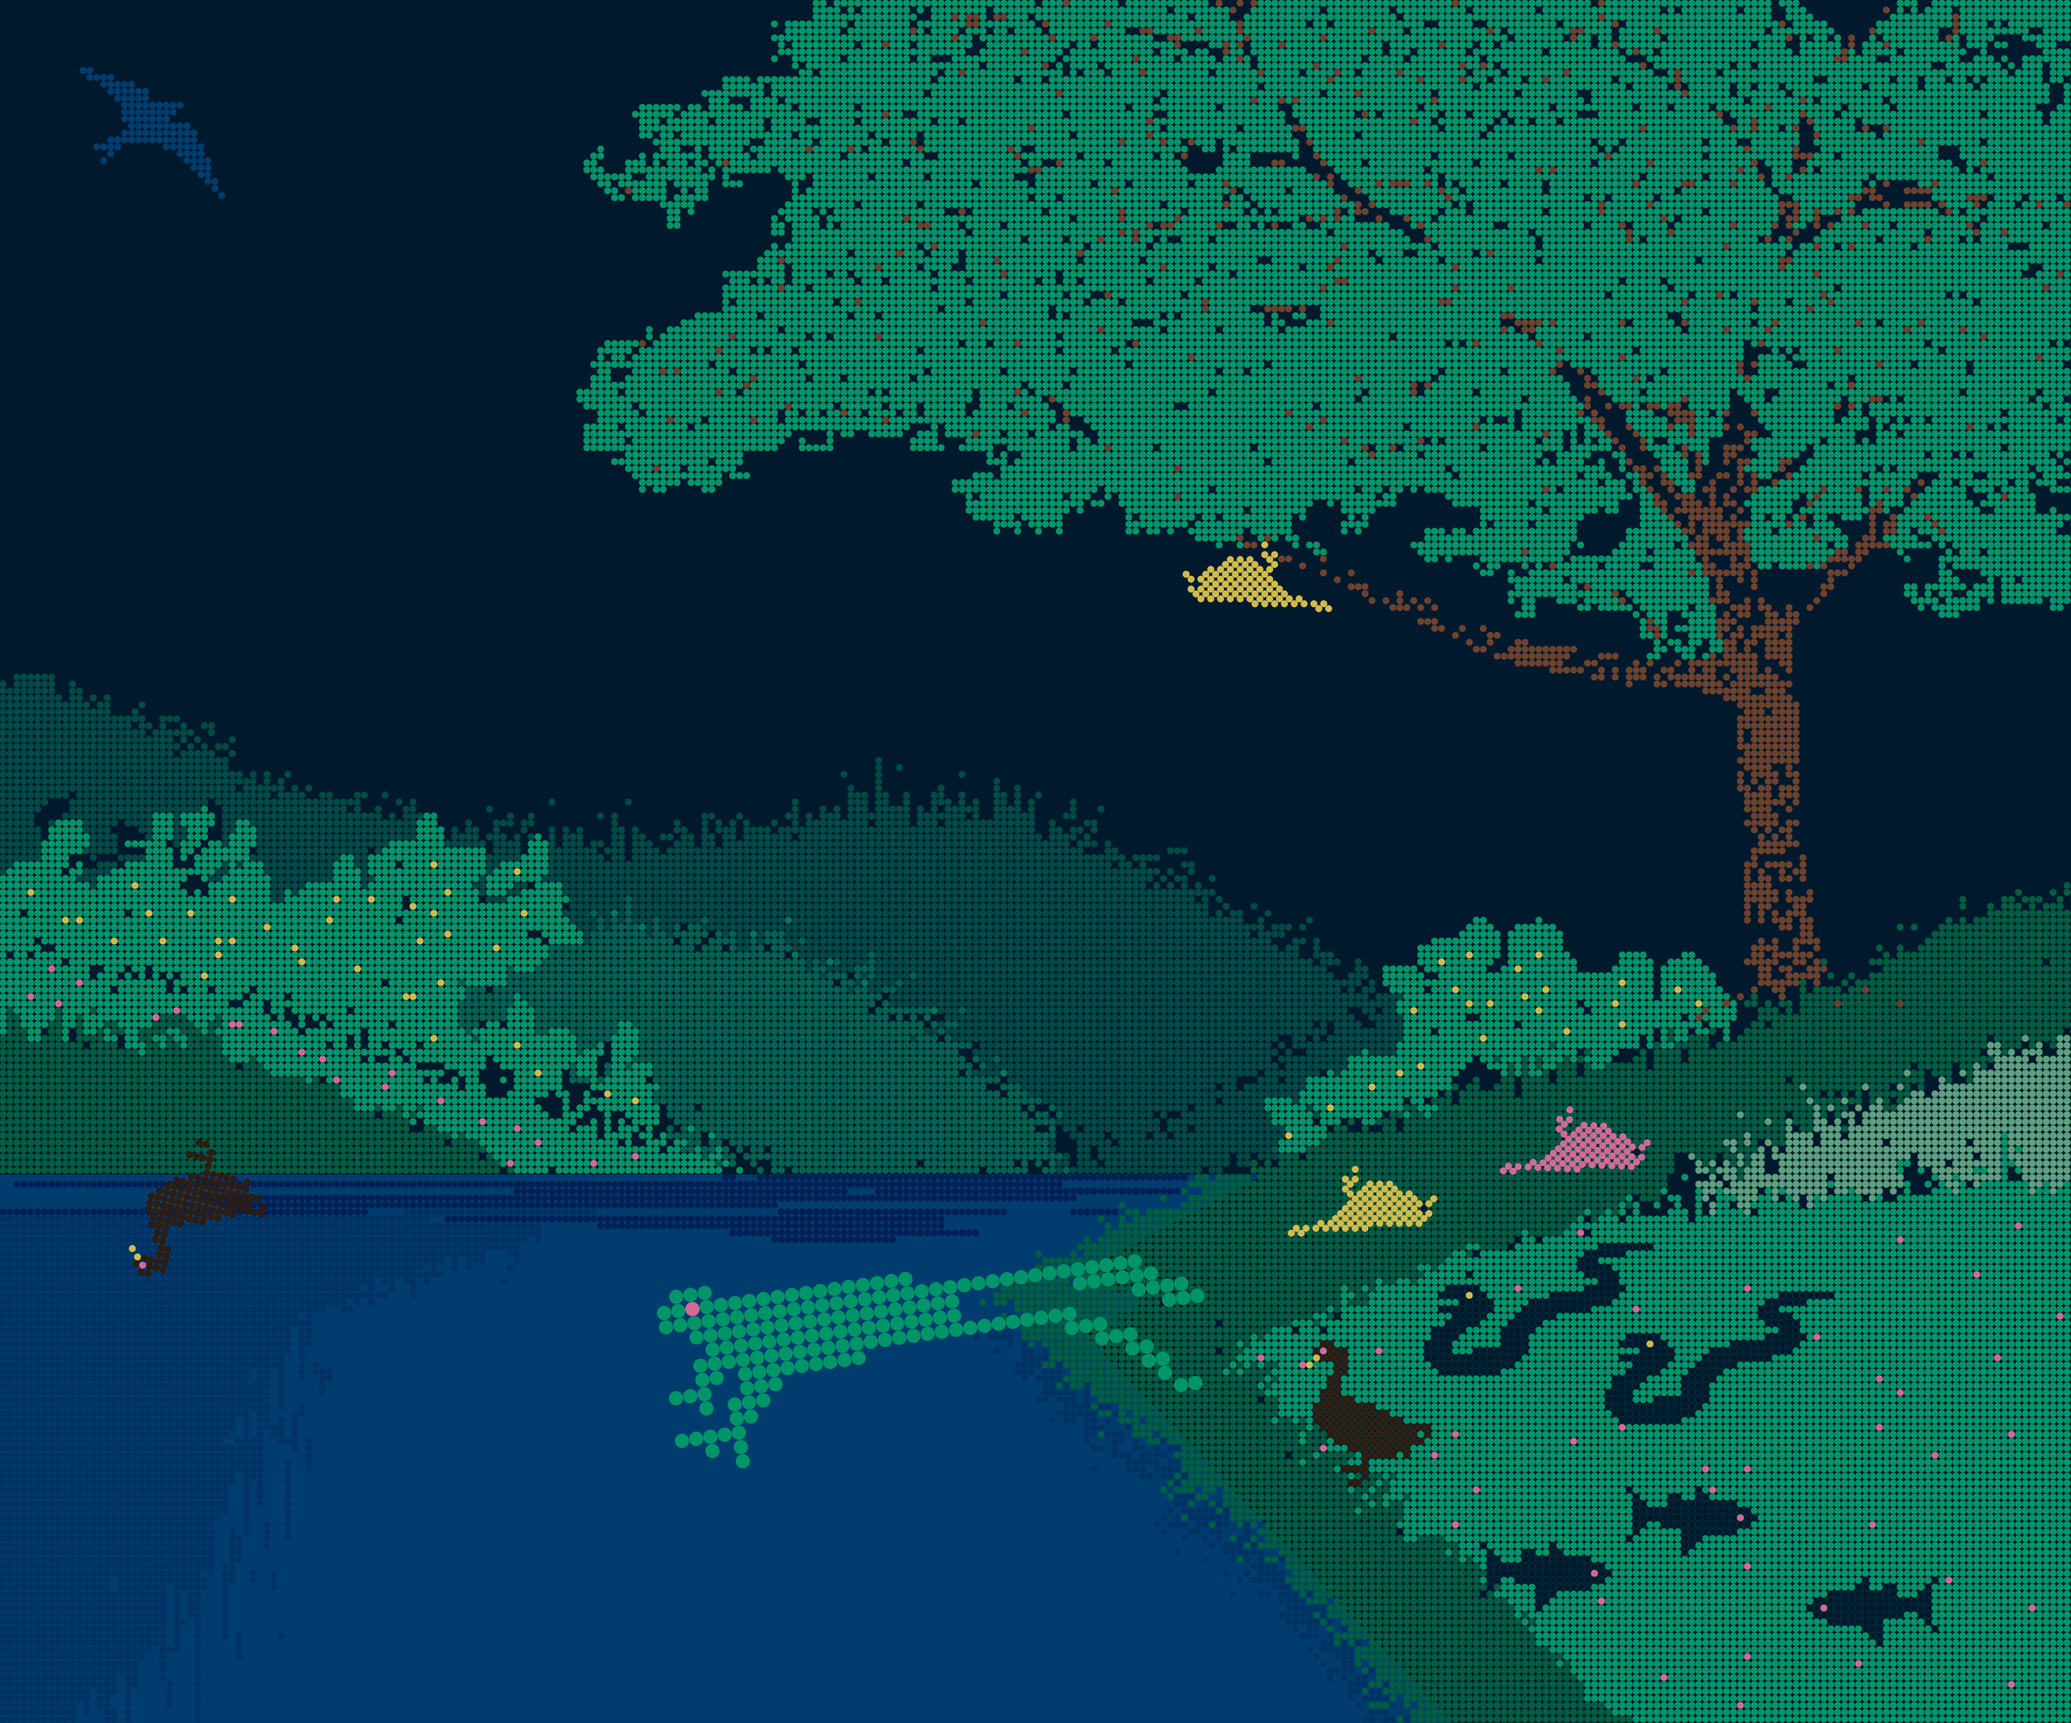
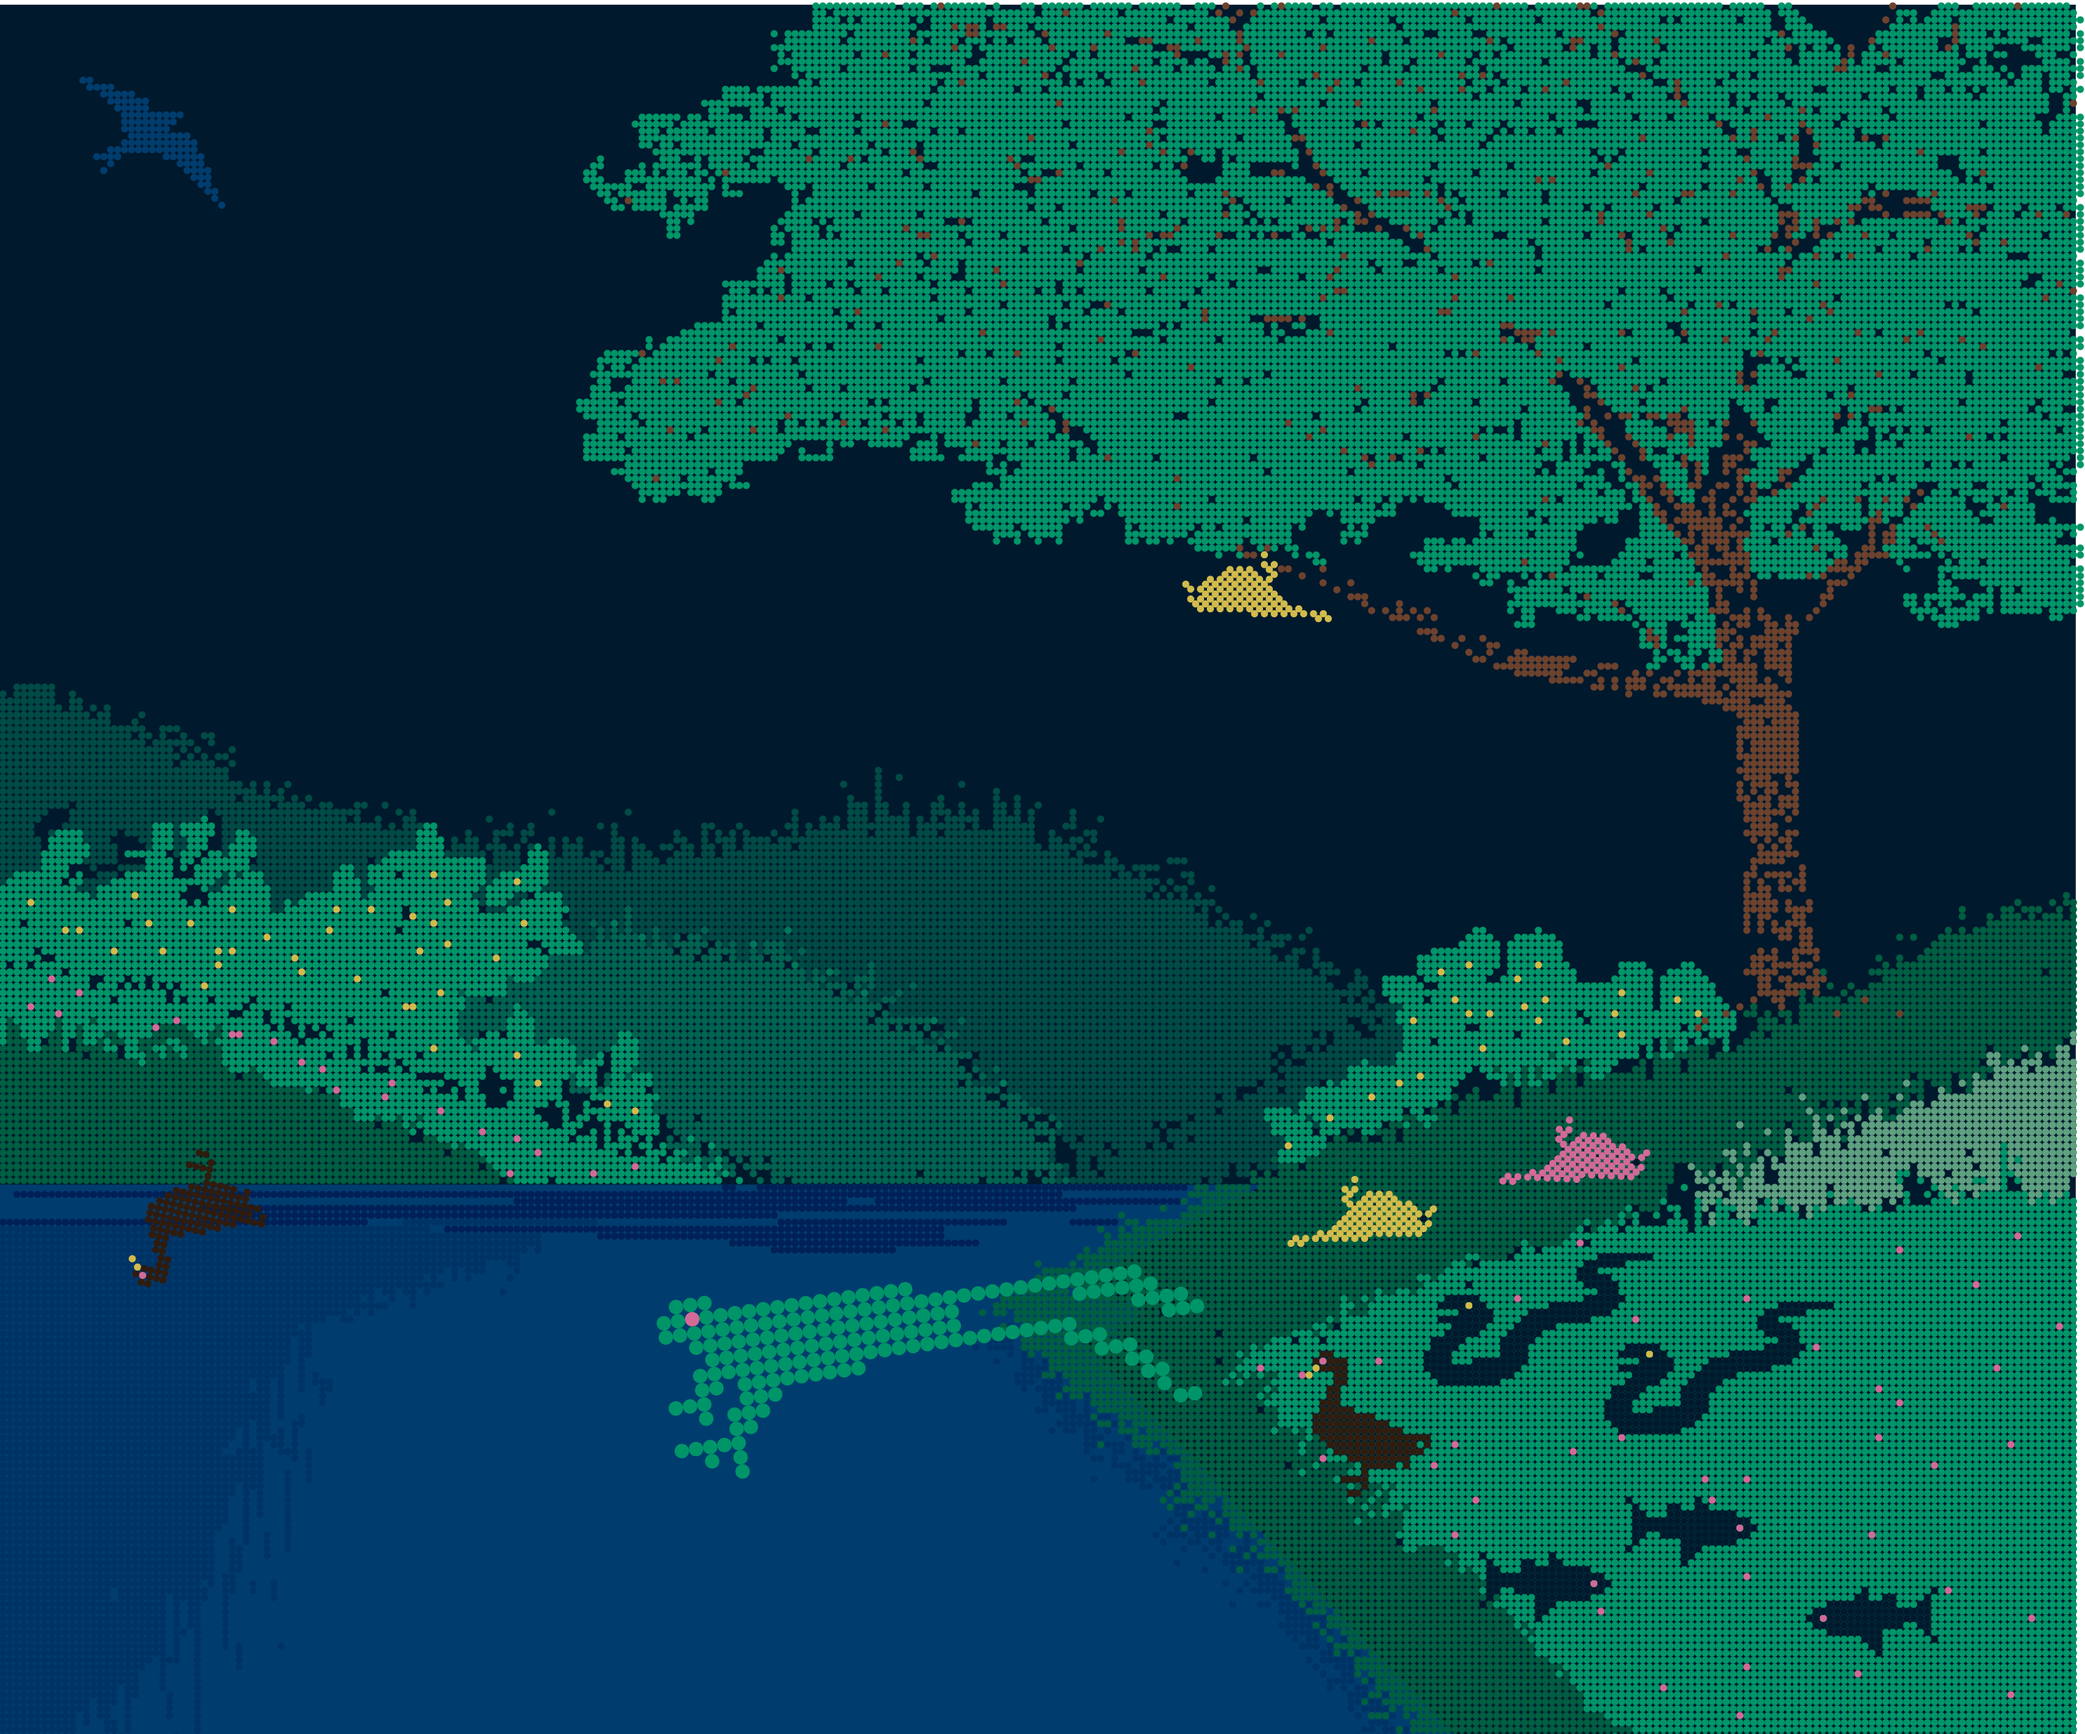
wip

Changed region(s): [[0.0, 0.0, 1.0, 1.0], [0.0312, 0.031, 0.0936, 0.0931], [0.0936, 0.0931, 0.1248, 0.1242]]

diff --git a/client/src/error-boundary/ErrorBoundary.module.scss b/client/src/error-boundary/ErrorBoundary.module.scss
@@ -2,10 +2,14 @@
   background-position: center;
   background-size: cover;
   height: calc(100vh);
-  background-image: url("../styles/assets/error-background@1.00x.png");
+  background-image: url("../styles/assets/error-background@0.50x.png");
   color: var(--bs-rk-pink);
   overflow: auto;
   width: 100%;
+
+  @media (min-width: 1500px) {
+    background-image: url("../styles/assets/error-background@1.00x.png");
+  }
 }
 
 .errorTitle {
